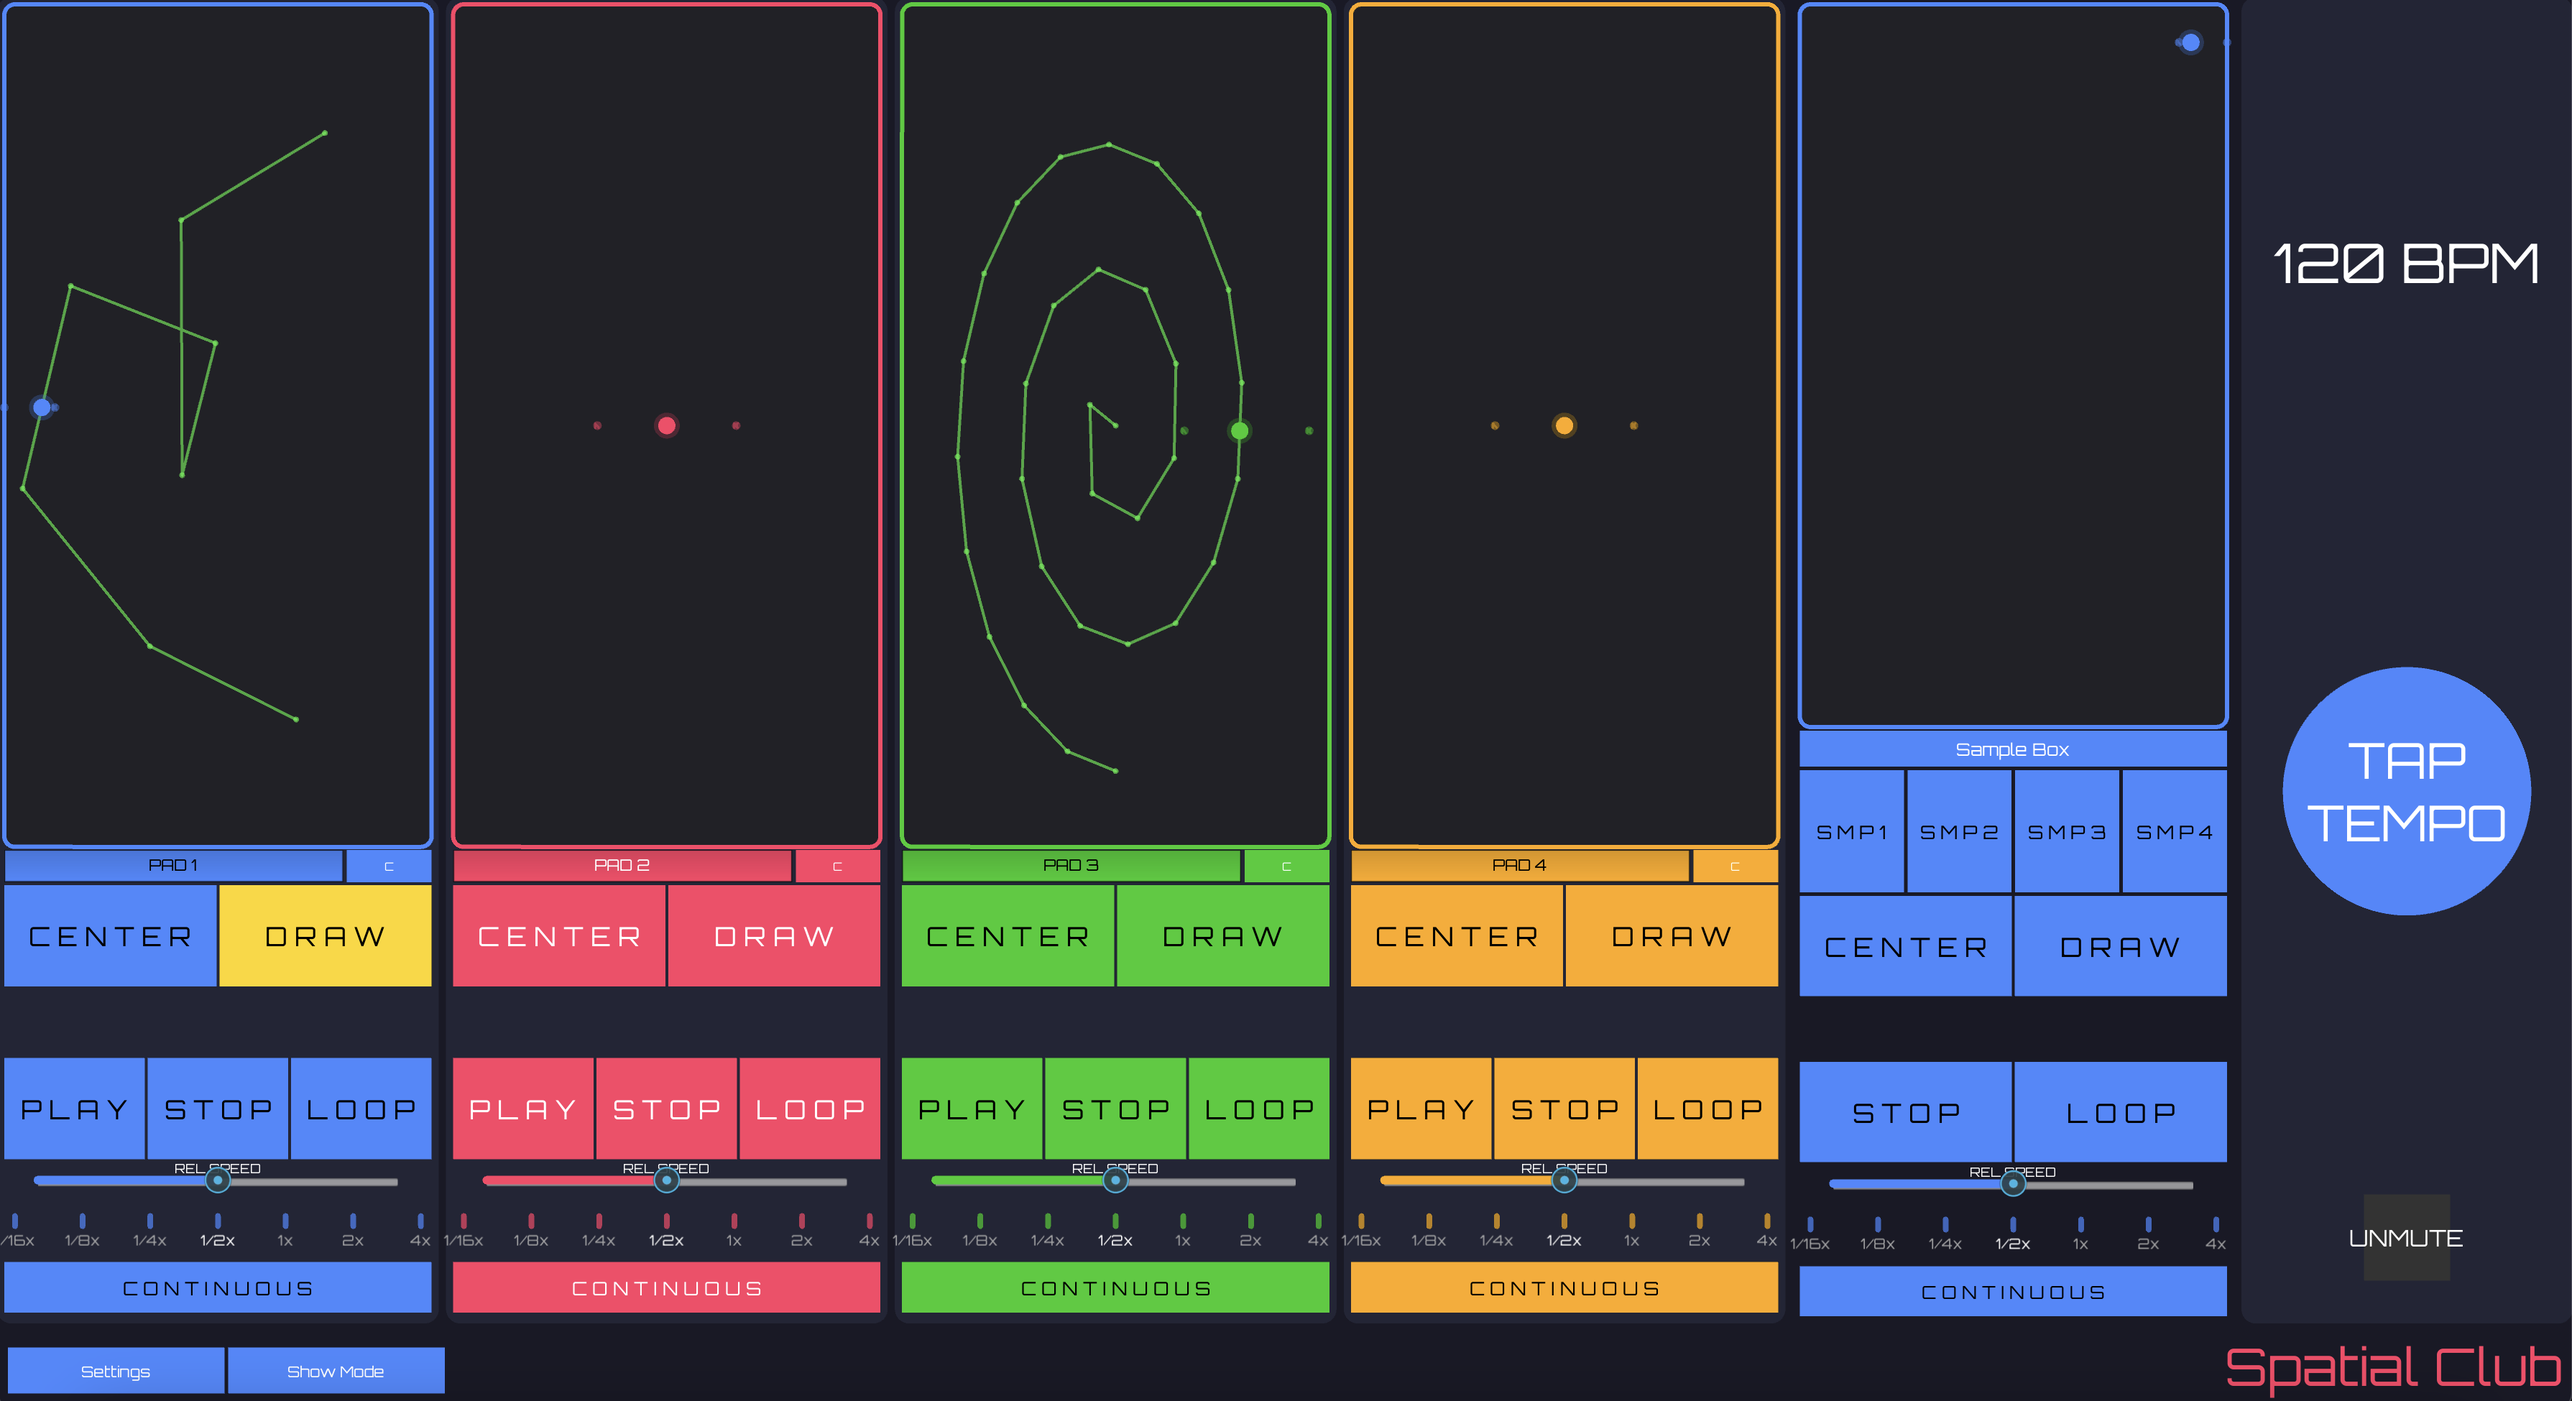
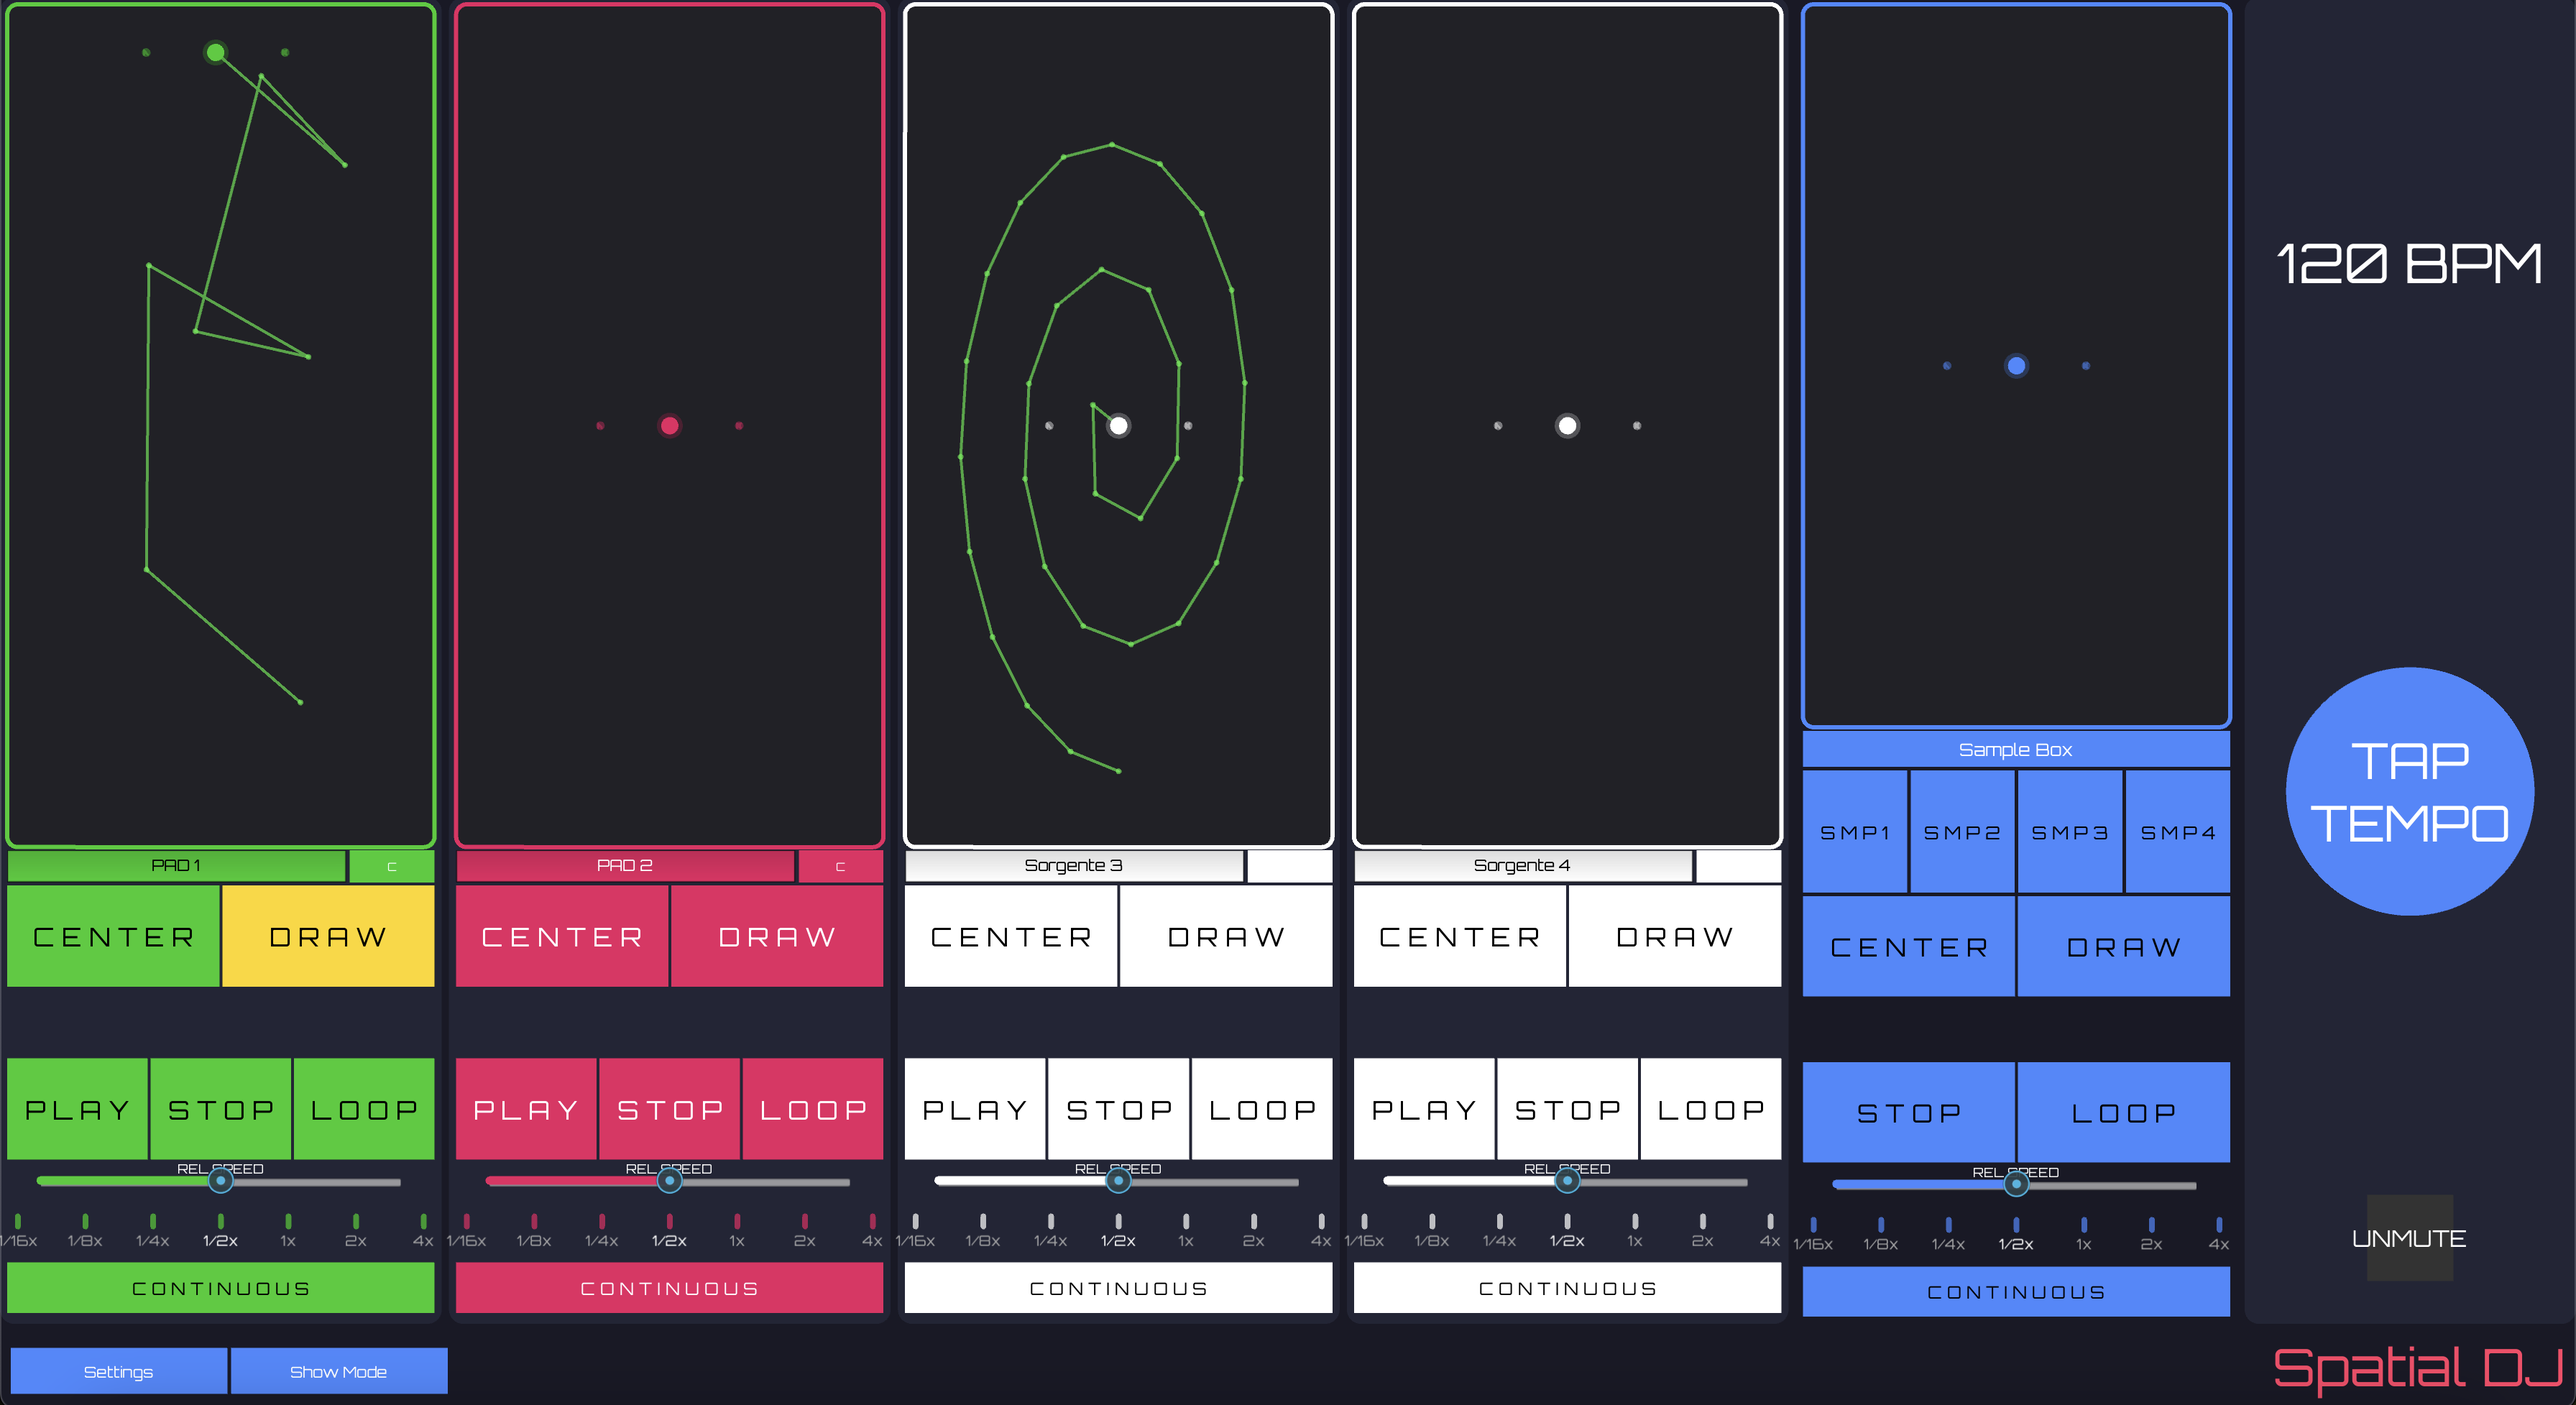
Replace SPACe diagram with clean SVG, update Spatial DJ screenshot

diff --git a/index.html b/index.html
@@ -416,7 +416,7 @@
             <li><strong>Multi-device output routing</strong> to fit any rig</li>
           </ul>
           <figure class="product-figure">
-            <img src="assets/images/space-engine-diagram.png" alt="SPACe engine" loading="lazy" onerror="this.hidden=true;this.nextElementSibling.hidden=false" />
+            <img src="assets/images/space-engine-diagram.svg" alt="SPACe engine" loading="lazy" onerror="this.hidden=true;this.nextElementSibling.hidden=false" />
             <div class="img-placeholder" role="img" aria-label="SPACe engine diagram" hidden>[Image: SPACe diagram &mdash; PA multichannel output + Booth stereo output]</div>
           </figure>
         </div>

diff --git a/assets/images/README.md b/assets/images/README.md
@@ -6,7 +6,7 @@ Drop the files here using these exact names; `index.html` already points to them
 | File | Section | Content | Suggested size |
 |------|---------|---------|----------------|
 | `spatial-dj-interface.png` | Our Technologies > Spatial DJ | Screenshot of the interface with a drawn trajectory and the Sample Box visible | 1600x900 (16:9) |
-| `space-engine-diagram.png` | Our Technologies > SPACe | Diagram: input > SPACe > PA multichannel output + stereo Booth output (zero latency) | 1600x900 (16:9), dark background |
+| `space-engine-diagram.svg` | Our Technologies > SPACe | Diagram: input > SPACe > PA multichannel output + stereo Booth output (zero latency) | 1600x900 (16:9), dark background |
 | `spatial-launcher-mk1.png` | Our Technologies > Spatial Club | Photo of Spatial Launcher MK1, ideally front + rear panel showing connectivity | 1600x900 (16:9) |
 
 Keep each file under ~500 KB. Use lowercase names and real extensions (the server is case-sensitive).
